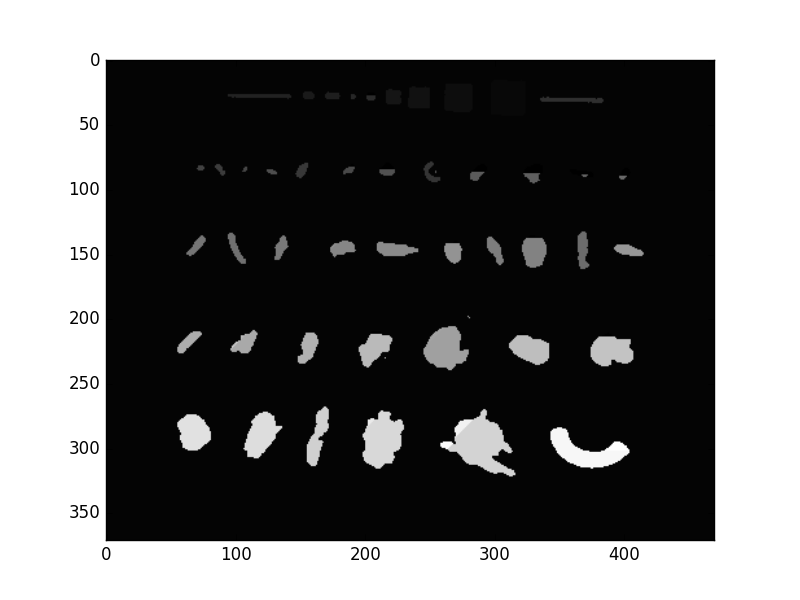
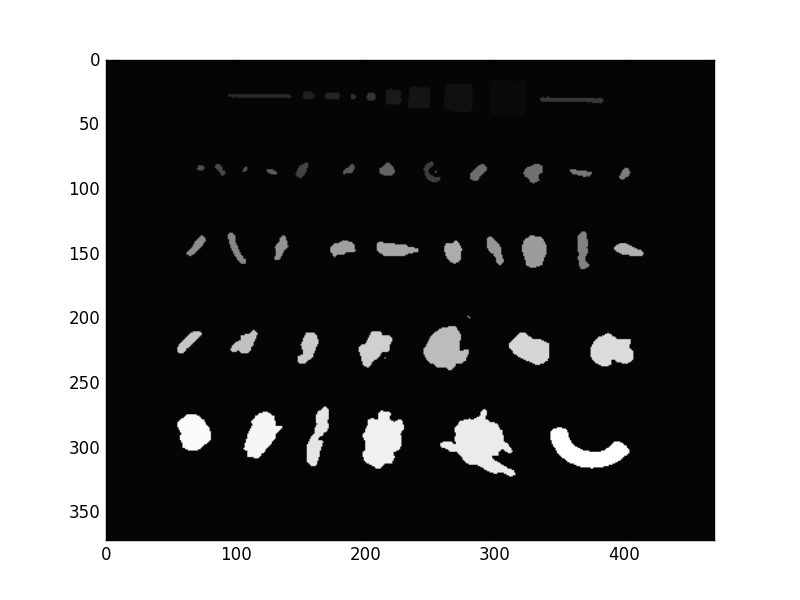
Fixed bug that was failing to mark objects correctly. Also added functions to calculate area, perimeter, etc.

diff --git a/project1/project.py b/project1/project.py
@@ -1,40 +1,81 @@
 #! /usr/bin/env python
 
+import os
+
 from astropy.io import fits
+from astropy.io import ascii
+from astropy.table import Table
 import matplotlib.pyplot as plt
 import numpy as np
 from skimage.io import imread
 from skimage.io import imsave
 
 # -----------------------------------------------------------------------------
+
+def find_area(image, object_number):
+    """
+
+    """
+
+    area = image[np.where(image == object_number)].size
+
+    return area
+
 # -----------------------------------------------------------------------------
 
-if __name__ == '__main__':
+def find_circularity(area, perimeter):
+    """
 
-    image_file = 'test.bmp'
-    image = imread(image_file)
+    """
 
-    # # Plot histogram to find threshold
-    # fig = plt.figure()
-    # ax = fig.add_subplot(111)
-    # ax.hist(image)
-    # plt.savefig('test_hist.png')
+    circularity = (4 * np.pi * area) / float(perimeter)**2
 
-    # Binary threshold the image
-    threshold = 185
-    image[np.where(image < threshold)] = 0
-    image[np.where(image >= threshold)] = 1
+    return circularity
 
-    # # Save the binary image
-    # fig = plt.figure()
-    # ax = fig.add_subplot(111)
-    # ax.imshow(image, cmap='gray')
-    # plt.savefig('test_threshold.png')
+# -----------------------------------------------------------------------------
+
+def find_diameter():
+    """
+
+    """
+
+    diameter = 1
+
+    return diameter
+
+# -----------------------------------------------------------------------------
+
+def find_perimeter(image, object_number):
+    """
+
+    """
+
+    # The permieter is the number of '1' pixels that have '0' as neighbors
+    nrows = image.shape[0]
+    ncols = image.shape[1]
+    perimeter = 0
+
+    for row in range(0,nrows):
+        for col in range(0,ncols):
+
+            if image[row,col] == object_number:
+
+                # Check to see if nieghbors contain 0
+                neighbors = [image[row-1,col], image[row,col+1], image[row+1,col], image[row,col-1]]
+                if 1 in neighbors:
+                    perimeter += 1
+
+    return perimeter
+
+# -----------------------------------------------------------------------------
+
+def mark_image(image):
+    """
+    """
 
     # Initializations
     nrows = image.shape[0]
     ncols = image.shape[1]
-    marked_image = np.zeros(image.shape)
     value = 2
 
     # Mark the objects
@@ -48,6 +89,7 @@ if __name__ == '__main__':
                 # Mark the pixel
                 image[row,col] = value
 
+                # Sweep right and down
                 for row in range(0,nrows):
                     for col in range(0,ncols):
 
@@ -61,7 +103,51 @@ if __name__ == '__main__':
                                     if image[row + row_index, col + col_index] == 0:
                                         image[row + row_index, col + col_index] = value
 
+
+                # Sweep left and up
+                for row in reversed(range(0,nrows)):
+                    for col in reversed(range(0,ncols)):
+
+                        if image[row,col] == value:
+
+                            # Mark any connected pixels in the neighborhood
+                            for row_index in [-1, 0, 1]:
+                                for col_index in [-1, 0, 1]:
+
+                                    # There are neighboring pixels in object, mark with value
+                                    if image[row + row_index, col + col_index] == 0:
+                                        image[row + row_index, col + col_index] = value
+
                 value += 1
+
+
+# -----------------------------------------------------------------------------
+# -----------------------------------------------------------------------------
+
+if __name__ == '__main__':
+
+    image_file = 'test.bmp'
+    image = imread(image_file)
+
+    # Plot histogram to find threshold
+    fig = plt.figure()
+    ax = fig.add_subplot(111)
+    ax.hist(image)
+    plt.savefig('test_hist.png')
+
+    # Binary threshold the image
+    threshold = 185
+    image[np.where(image < threshold)] = 0
+    image[np.where(image >= threshold)] = 1
+
+    # Save the binary image
+    fig = plt.figure()
+    ax = fig.add_subplot(111)
+    ax.imshow(image, cmap='gray')
+    plt.savefig('test_threshold.png')
+
+    # Mark the objects
+    mark_image(image)
 
     # Save the marked image
     fig = plt.figure()
@@ -69,11 +155,27 @@ if __name__ == '__main__':
     ax.imshow(image, cmap='gray')
     plt.savefig('test_marked.png')
 
+    if os.path.exists('image.fits'):
+        os.remove('image.fits')
+    hdu = fits.PrimaryHDU()
+    hdu1 = fits.ImageHDU(image)
+    hdulist = fits.HDUList([hdu, hdu1])
+    hdulist.writeto('image.fits')
+
     # The number of marked objects is the maximum value - 2
     num_objects = np.max(image) - 2
     print 'The number of objects found is {}'.format(num_objects)
 
-    # hdu = fits.PrimaryHDU()
-    # hdu1 = fits.ImageHDU(image)
-    # hdulist = fits.HDUList([hdu, hdu1])
-    # hdulist.writeto('image.fits')
+    # Build table of statistics
+    data_table = Table(names=['Object #', 'Area', 'Diameter', 'Perimeter', 'Circularity', 'Classification #'])
+    for object_number in range(2, num_objects+2):
+        data_dict = {}
+        data_dict['Object #'] = object_number
+        data_dict['Area'] = find_area(image, object_number)
+        data_dict['Diameter'] = find_diameter()
+        data_dict['Perimeter'] = find_perimeter(image, object_number)
+        data_dict['Circularity'] = find_circularity(data_dict['Area'], data_dict['Perimeter'])
+        data_table.add_row(data_dict)
+    print data_table
+
+    # Classify the objects
